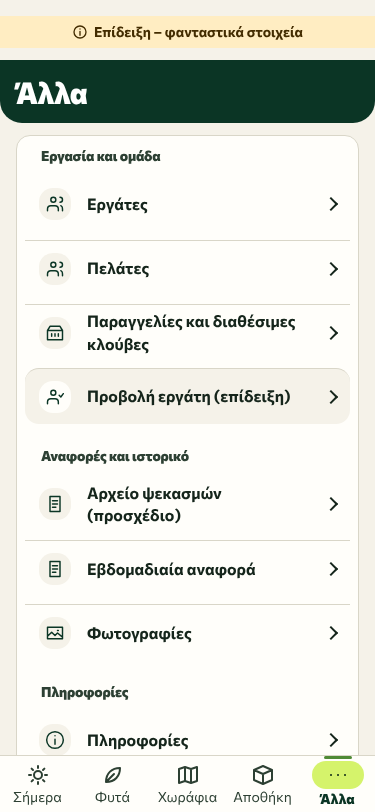
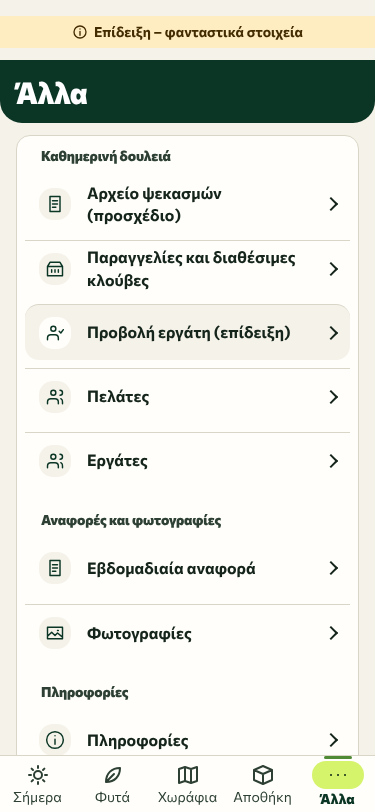
Daylight (Sun / Glove) mode: black on white, +12.5 % text, 64 px targets; device-local, offline, never in a backup (#527)
Look only (tokens + two CSS lines); toggle in Άλλα under «Οθόνη». Setting ui_sun is device-only (excluded from backups).
e2e sun-mode: switch, reload keeps it, no sideways scroll on all 5 tabs, no button under 56 px, axe clean.

Claude-Session: https://claude.ai/code/session_01Kyi5pvQqyRio2HMDhKx7Mu

diff --git a/app/tests/e2e/sun-mode.spec.ts b/app/tests/e2e/sun-mode.spec.ts
@@ -1,0 +1,37 @@
+import AxeBuilder from '@axe-core/playwright';
+import { expect, test } from '@playwright/test';
+import { fixClock } from './helpers/clock';
+
+// «Φως ημέρας» (Sun / Glove mode): a device-local LOOK: black on white, bigger text and targets. It survives a reload, never overflows sideways, passes axe, and changes no feature.
+const SHOTS = '../docs/design/screenshots-2026-11-24/after';
+test('Daylight mode: switches from Άλλα, survives a reload, black on white, 64 px bar, no sideways scroll on any tab, axe clean', async ({ page }) => {
+  await page.setViewportSize({ width: 375, height: 812 });
+  await fixClock(page);
+  await page.goto('/');
+  await page.getByTestId('empty-state').locator('button').nth(1).click();
+  await expect(page.getByTestId('today-counts')).toBeVisible();
+  await page.locator('nav.tabs [data-tab="more"]').click();
+  await expect(page.getByTestId('sun-off')).toHaveAttribute('aria-pressed', 'true');
+  await page.getByTestId('sun-on').click();
+  await expect(page.locator('html')).toHaveAttribute('data-sun', '');
+  expect(await page.evaluate(() => getComputedStyle(document.body).backgroundColor)).toBe('rgb(255, 255, 255)');
+  expect(await page.evaluate(() => getComputedStyle(document.body).color)).toBe('rgb(0, 0, 0)');
+  await page.reload();
+  await expect(page.locator('html')).toHaveAttribute('data-sun', '');                              // kept on this phone
+  for (const tab of ['today', 'crops', 'parcels', 'stock', 'more']) {
+    await page.locator(`nav.tabs [data-tab="${tab}"]`).click();
+    await page.waitForTimeout(250);
+    expect(await page.evaluate(() => document.documentElement.scrollWidth), tab).toBeLessThanOrEqual(375);
+    const small = await page.evaluate(() => [...document.querySelectorAll('main button:not(:disabled)')].filter((b) => { const r = b.getBoundingClientRect(); return r.width > 0 && r.height > 0 && r.height < 56; }).length);
+    expect(small, `${tab}: buttons under 56 px`).toBe(0);
+  }
+  await page.locator('nav.tabs [data-tab="today"]').click();
+  await page.waitForTimeout(5000);
+  await page.evaluate(() => window.scrollTo(0, 0));
+  await page.screenshot({ path: `${SHOTS}/1-today-daylight.png` });
+  const audit = await new AxeBuilder({ page }).analyze();
+  expect(audit.violations.filter((v) => v.impact === 'serious' || v.impact === 'critical').map((v) => [v.id, v.nodes.map((n) => n.target)])).toEqual([]);
+  await page.locator('nav.tabs [data-tab="more"]').click();
+  await page.getByTestId('sun-off').click();
+  await expect(page.locator('html')).not.toHaveAttribute('data-sun', '');
+});

diff --git a/app/src/main.tsx b/app/src/main.tsx
@@ -10,6 +10,7 @@ import { App } from './ui/App';
 import { db, initDb } from './db';
 import { ensureAllLangs, ensureLang, lang } from './i18n';
 import { bootSync } from './sync/boot';
+import { loadSun } from './ui/sunmode';
 import { onNeedRefresh, onOfflineReady, setApply, watchDirty, watchForUpdates } from './pwa/update';
 
 document.documentElement.lang = lang.value;
@@ -17,6 +18,7 @@ setApply(registerSW({ immediate: true, onNeedRefresh, onOfflineReady, onRegister
 watchDirty();
 installErrorLog(db);      // the app's own errors are kept on this phone only (Info → «Αναφορά σφάλματος»); nothing is sent
 void initDb().finally(async () => {
+  await loadSun().catch(() => undefined);      // «Φως ημέρας» before the first screen: no flash of the normal look
   await ensureLang(lang.value).catch(() => undefined);      // the phone's language (not Greek) is loaded before the first screen
 
   if (import.meta.env.VITE_DS_GALLERY === 'true' && location.search.includes('ds-gallery')) { const { Gallery } = await import('./ui/ds/Gallery'); render(<Gallery />, document.getElementById('app')!); return; }   // never in production

diff --git a/app/src/repo/backup.ts b/app/src/repo/backup.ts
@@ -7,7 +7,7 @@ import { actorId, deviceId, isAppendOnly, put, putLocal, putSetting, refreshPend
 
 export const BACKUP_FORMAT = 'aloni-backup';
 export const BACKUP_VERSION = 1;
-const DEVICE_ONLY = new Set(['device_id', 'actor_id', 'last_backup_at', 'auth_session', 'worker_view', 'sync_enabled', 'push_subscription', 'persist_standalone', 'ui_state']); // never part of a backup (the sign-in session holds tokens: it must NEVER leave the phone in a file)
+const DEVICE_ONLY = new Set(['device_id', 'actor_id', 'last_backup_at', 'auth_session', 'worker_view', 'sync_enabled', 'push_subscription', 'persist_standalone', 'ui_state', 'ui_sun']); // never part of a backup (the sign-in session holds tokens: it must NEVER leave the phone in a file)
 export const isDeviceOnlyKey = (key: string): boolean => DEVICE_ONLY.has(key) || key.startsWith('sync_cursor:') || key.startsWith('held_action:') || key.startsWith('media_up:') || key.startsWith('notice_seen_at:');
 export type BackupErrorCode = 'format' | 'version' | 'sha256' | 'demo' | 'conflict';
 export class BackupError extends Error { constructor(readonly code: BackupErrorCode) { super(code); } }

diff --git a/app/src/ui/More.tsx b/app/src/ui/More.tsx
@@ -21,6 +21,7 @@ import { SignIn } from './SignIn';
 import { showUndo } from './Toast';
 import { weeklyCopy } from '../content/weekly-report';
 import { WeeklyReport } from './cx/WeeklyReport';
+import { setSun, sunMode } from './sunmode';
 import './more-v2.css';
 
 const MENU_ICONS = {
@@ -77,6 +78,13 @@ export function More() {
           <button key={l} aria-pressed={lang.value === l} onClick={() => setLang(l)}>{LANG_META[l].label}</button>
         ))}
       </div>
+
+      <h2>{t('ui.sun.title')}</h2>
+      <div class="seg two" role="group" aria-label={t('ui.sun.title')} data-testid="sun-toggle">
+        <button aria-pressed={!sunMode.value} data-testid="sun-off" onClick={() => void setSun(false)}>{t('ui.sun.off')}</button>
+        <button aria-pressed={sunMode.value} data-testid="sun-on" onClick={() => void setSun(true)}>{t('ui.sun.on')}</button>
+      </div>
+      <p class="muted">{t('ui.sun.note')}</p>
 
       <h2>{t('more.activeFarm')}</h2>
       <div class="seg two">

diff --git a/app/src/ui/sunmode.ts b/app/src/ui/sunmode.ts
@@ -1,0 +1,17 @@
+import { effect, signal } from '@preact/signals';
+import { db } from '../db';
+import { putLocal } from '../repo';
+
+// «Φως ημέρας» (Sun / Glove mode): pure black on white, bigger text and bigger tap targets for work in direct sunlight or with gloves. A look only: no feature, no rule, no data changes.
+// Kept on THIS phone (a device-local setting, never synced, never in a backup) and works offline.
+export const SUN_SETTING = 'ui_sun';
+export const sunMode = signal(false);
+
+export async function loadSun(): Promise<void> {
+  sunMode.value = (await db.settings.get(SUN_SETTING))?.value === true;
+}
+export async function setSun(on: boolean): Promise<void> {
+  sunMode.value = on;
+  await putLocal(db, SUN_SETTING, on);
+}
+effect(() => { document.documentElement.toggleAttribute('data-sun', sunMode.value); });

diff --git a/app/src/ui/styles.css b/app/src/ui/styles.css
@@ -236,6 +236,8 @@ nav.tabs button[aria-current="page"]::before { content:""; position:absolute; in
 /* the two capture buttons stack when the text is enlarged (a long Greek word did not fit half the screen at 200 % text) and a word may break instead of leaving its button */
 .pair { grid-template-columns:repeat(auto-fit, minmax(min(100%, var(--pair-min)), 1fr)); }
 .pair .btn { overflow-wrap:anywhere; }
+html[data-sun] * { box-shadow:none !important; }
+html[data-sun] .card, html[data-sun] .row { border-color:var(--fg); }
 
 /* crate quick steps (−1 +1 +5 +10): as many per row as fit, the rest wrap (large text) */
 .seg.steps { grid-template-columns:repeat(auto-fit, minmax(var(--step-min), 1fr)); }

diff --git a/app/src/ui/tokens.css b/app/src/ui/tokens.css
@@ -23,3 +23,6 @@
 
 /* very narrow phones (≤300 px): buttons stack in one column. Lives here because tokens.css is the only file allowed to hold px values. */
 @media (max-width:300px) { main .seg, main .seg.two, main .pair, main .actions2 { grid-template-columns:1fr; } } /* `main` makes it win over styles.css, which loads later */
+
+/* «Φως ημέρας» (Sun / Glove mode, device-local): pure black on white, +12.5 % text, 64 px targets, no shadows. Colours and sizes only; the screens are the same. */
+html[data-sun] { --bg:#ffffff; --card:#ffffff; --fg:#000000; --muted:#000000; --tab:#000000; --line:#000000; --field:#000000; --tap:64px; --nav-h:80px; font-size:112.5%; }
